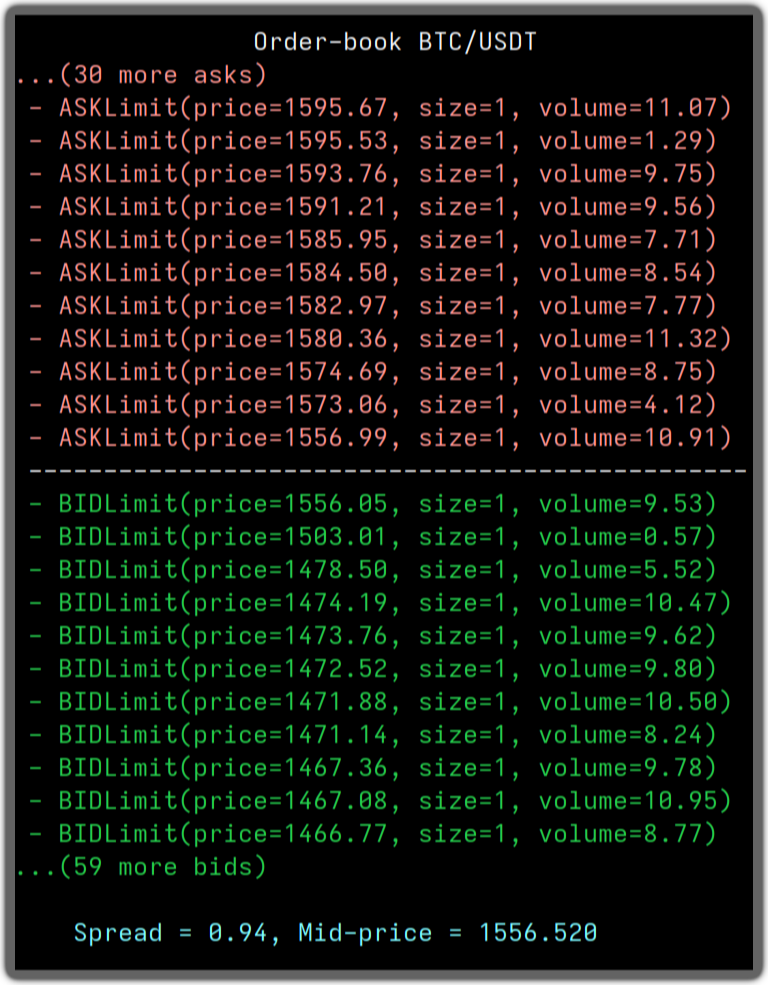
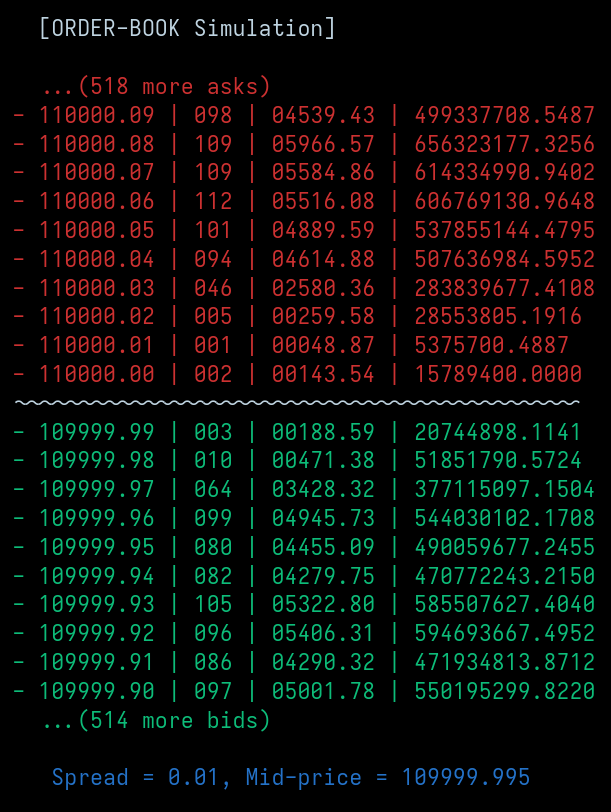
modif ss

diff --git a/pylob/orderbook/orderbook.py b/pylob/orderbook/orderbook.py
@@ -293,11 +293,11 @@ class OrderBook:
         - BidLimit(price=.., size=.., vol=..)
         - ...
         '''
-        length = 35
+        length = len(self._bid_side.best().view()) + 2
         buffer = io.StringIO()
         buffer.write(f"   [ORDER-BOOK {self._name}]\n\n")
         buffer.write(colored(self._ask_side.view(), "red"))
-        buffer.write(" " + ("-" * length) + "\n")
+        buffer.write(' ' + '~'*length + '\n')
         buffer.write(colored(self._bid_side.view(), "green"))
 
         if self._ask_side.empty() or self._bid_side.empty(): return buffer.getvalue()
